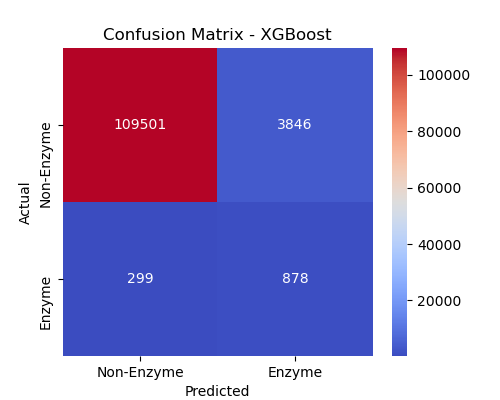
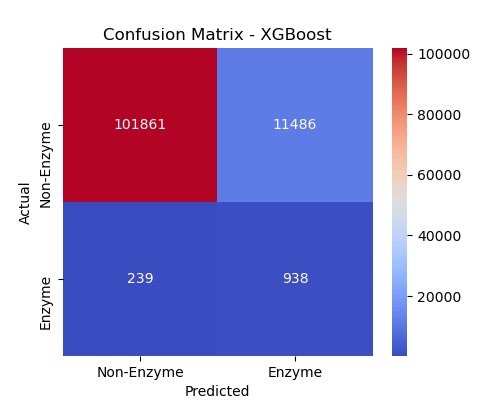
Added feature selection and retrained XGBoost on selected features

diff --git a/scripts/train_model.py b/scripts/train_model.py
@@ -6,8 +6,8 @@ import matplotlib.pyplot as plt
 import seaborn as sns
 from sklearn.model_selection import train_test_split
 from sklearn.metrics import accuracy_score, classification_report, confusion_matrix
-from imblearn.over_sampling import ADASYN  # Use ADASYN instead of SMOTE
 from xgboost import XGBClassifier
+from imblearn.over_sampling import ADASYN  
 
 # Ensure output directory exists
 output_dir = "outputs"
@@ -24,29 +24,39 @@ df = pd.read_csv("data/swissprot_features.csv")
 X = df.drop(columns=["Label"])  
 y = df["Label"]  
 
-# Train-test split (stratified)
+# Split into training and testing sets
 X_train, X_test, y_train, y_test = train_test_split(X, y, test_size=0.2, random_state=42, stratify=y)
 
-# **Fix Imbalance with ADASYN**
-adasyn = ADASYN(sampling_strategy=0.3, random_state=42)  # Generates harder examples
+# **Apply ADASYN for Improved Oversampling**
+adasyn = ADASYN(sampling_strategy=0.4, random_state=42)  # Increased balance
 X_train_balanced, y_train_balanced = adasyn.fit_resample(X_train, y_train)
 
 print(f"Class distribution after ADASYN: {np.bincount(y_train_balanced)}")
 
-# **Train an Improved XGBoost Classifier**
-xgb_model = XGBClassifier(n_estimators=200, 
-                          max_depth=10, 
-                          learning_rate=0.1, 
-                          scale_pos_weight=len(y_train_balanced[y_train_balanced == 0]) / len(y_train_balanced[y_train_balanced == 1]),  # Adjusts for imbalance
-                          use_label_encoder=False, 
-                          eval_metric='logloss', 
-                          random_state=42)
+# **Train an Initial XGBoost Classifier**
+xgb_model = XGBClassifier(n_estimators=300, 
+                          learning_rate=0.05, 
+                          max_depth=10,  
+                          scale_pos_weight=8,  # Handle class imbalance
+                          random_state=42,
+                          n_jobs=-1)
 xgb_model.fit(X_train_balanced, y_train_balanced)
 
-# Make predictions
-y_pred_xgb = xgb_model.predict(X_test)
+# **Feature Importance Analysis**
+feature_importance = xgb_model.feature_importances_
+important_features = X.columns[feature_importance > 0.005]  # Keep top features
 
-# Evaluate XGBoost Model
+# **Reduce dataset to important features**
+X_train_selected = X_train_balanced[important_features]
+X_test_selected = X_test[important_features]
+
+# **Retrain XGBoost on Selected Features**
+xgb_model.fit(X_train_selected, y_train_balanced)
+
+# Make predictions
+y_pred_xgb = xgb_model.predict(X_test_selected)
+
+# Evaluate the XGBoost model
 accuracy_xgb = accuracy_score(y_test, y_pred_xgb)
 print(f"XGBoost Accuracy: {accuracy_xgb:.2f}")
 print("Classification Report:\n", classification_report(y_test, y_pred_xgb))
@@ -61,17 +71,12 @@ plt.title("Confusion Matrix - XGBoost")
 plt.savefig(os.path.join(output_dir, "confusion_matrix_xgb.png"))
 plt.close()  
 
-# Feature Importance Plot
+# Save Feature Importance Plot
 plt.figure(figsize=(8,6))
-feature_importance = xgb_model.get_booster().get_score(importance_type='weight')
-sorted_features = sorted(feature_importance.items(), key=lambda x: x[1], reverse=True)
-features, scores = zip(*sorted_features[:10])  # Top 10 important features
-plt.barh(features, scores)
+plt.barh(important_features, feature_importance[feature_importance > 0.005])
 plt.xlabel("F score")
 plt.ylabel("Features")
 plt.title("Feature Importance - XGBoost")
-for i, v in enumerate(scores):
-    plt.text(v + 5, i, str(v), color='black')
 plt.savefig(os.path.join(output_dir, "feature_importance_xgb.png"))
 plt.close()
 
